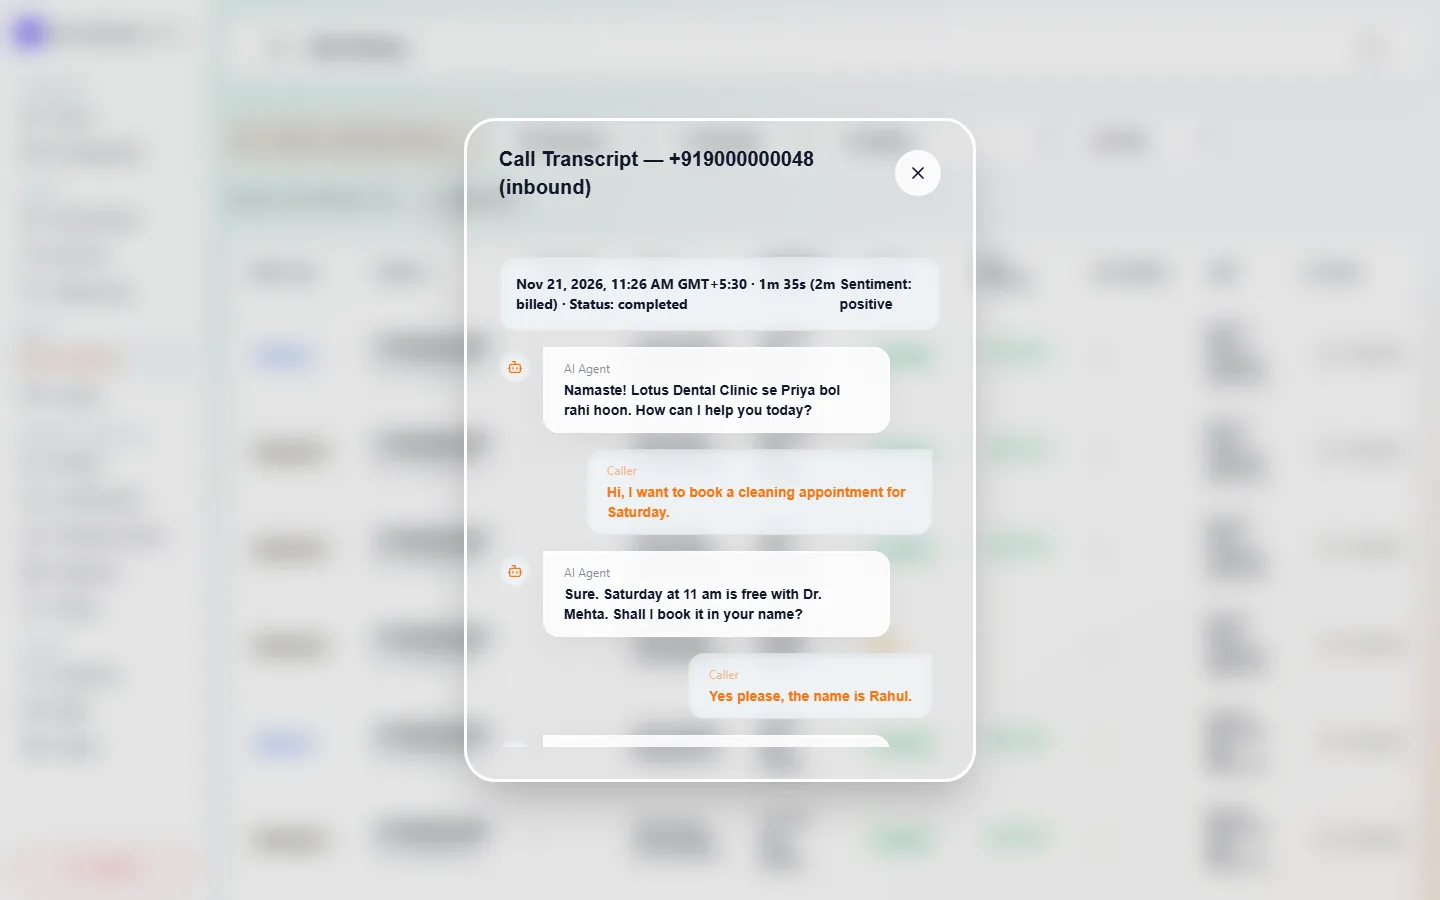
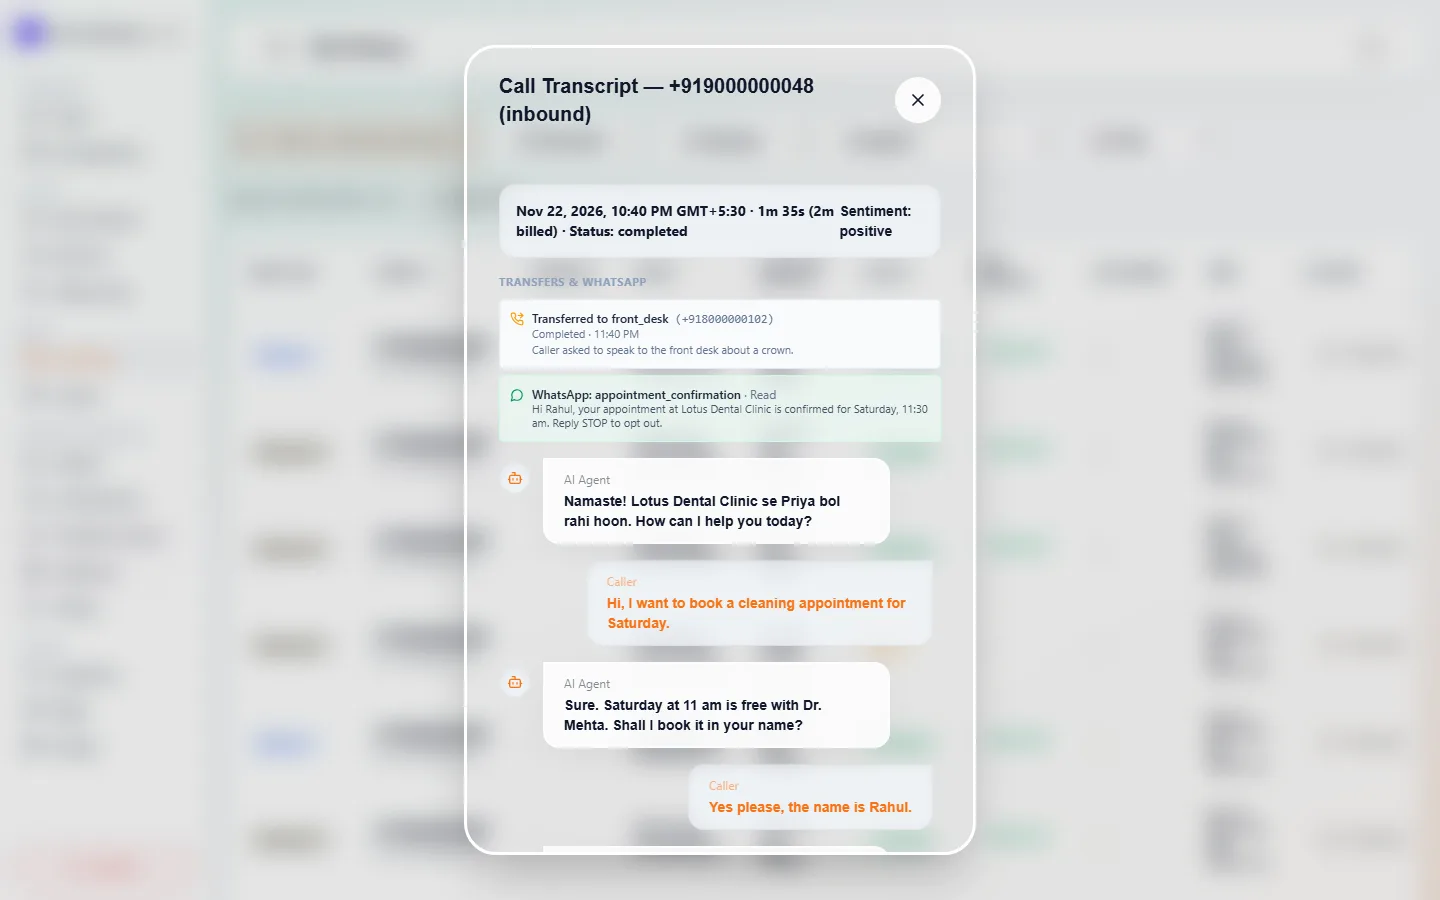
docs(site): live transfers and WhatsApp on the features pages
- Product Guide (/guide): new section "Live transfers and WhatsApp" (6 steps, 5 tips).
  - 3 new real-dashboard screenshots; the Integrations, agent editor and transcript screenshots
    were retaken.
- AI Voice Agent Software page: "Live Transfer to Your Team" and "WhatsApp Follow-ups" feature
  cards; the grid is now 3 per row.
- Demo seed (TEST database, fictional): a connected WhatsApp number, a billing agent, the three
  hand-off functions, one transfer and one WhatsApp message.
- GUIDE_SHOTS retakes only the named screens.
- Call History shows a transfer to "front desk" rather than "front_desk".

Proof:
- Build gate: 17 guide sections, every screenshot present.
- No sideways overflow at 1440 or 390 px.
- Marketing claims 39/39, demo smoke 5/5, guide and viewport specs 63/63.

Changed region(s): [[0.3125, 0.0311, 0.6875, 0.9956]]

diff --git a/server/scripts/demo_backend.js b/server/scripts/demo_backend.js
@@ -35,6 +35,14 @@ async function seed() {
   const agent = await prisma.agent.create({ data: { userId: u, name: 'Lotus Dental Receptionist', status: 'active', agentType: 'prompt', systemPrompt: 'You are Priya, the receptionist of Lotus Dental Clinic in Pune. Greet callers warmly in English or Hindi, answer questions about timings and fees from the knowledge base, and book appointments on the clinic calendar. Never give medical advice; offer a call-back from the dentist instead.', agentConfig: JSON.stringify({ callSettings: { recordingEnabled: false } }), direction: 'inbound' } });
   const agent2 = await prisma.agent.create({ data: { userId: u, name: 'COD Order Confirmation', status: 'active', agentType: 'prompt', systemPrompt: 'You call customers of Kesar Naturals who chose cash on delivery. Confirm the order, the delivery address and a good time to deliver, in Hindi or English.', agentConfig: '{}', direction: 'outbound' } });
   await prisma.agent.create({ data: { userId: u, name: 'EMI Due-Date Reminder', status: 'draft', agentType: 'prompt', systemPrompt: 'Remind borrowers politely that their EMI is due in three days. Verify identity before sharing any amount.', agentConfig: '{}', direction: 'outbound' } });
+  // Live transfers and WhatsApp (2026-11-22): a billing specialist, and the receptionist's three
+  // hand-off functions. The front-desk number is a placeholder like BUSINESS_NUMBER.
+  const billingAgent = await prisma.agent.create({ data: { userId: u, name: 'Lotus Billing Desk', status: 'active', agentType: 'prompt', systemPrompt: 'You are the billing desk of Lotus Dental Clinic. Explain invoices, payment options and insurance paperwork.', agentConfig: '{}', direction: 'inbound' } });
+  await prisma.agent.update({ where: { id: agent.id }, data: { agentConfig: JSON.stringify({ callSettings: { recordingEnabled: false }, functions: [
+    { id: 'fn-front-desk', name: 'front_desk', type: 'transfer_call', description: 'The caller asks to speak to a person, or has a dental emergency.', targetNumber: '+918000000102', fallbackMessage: 'Sorry, the front desk is busy right now. We will call you back within the hour.' },
+    { id: 'fn-billing', name: 'billing_desk', type: 'agent_transfer', description: 'The caller has a question about a bill, a payment or insurance.', targetAgentId: billingAgent.id },
+    { id: 'fn-whatsapp', name: 'send_appointment_confirmation', type: 'send_whatsapp', description: 'After an appointment is booked, offer the confirmation on WhatsApp.', whatsappTemplate: 'appointment_confirmation', whatsappLanguage: 'en', whatsappVariables: [{ description: "caller's first name" }, { description: 'appointment date and time' }] },
+  ] }) } });
   const number = await prisma.phoneNumber.create({ data: { userId: u, phoneNumber: BUSINESS_NUMBER, countryCode: 'IN', telephonyProvider: 'vobiz', status: 'active', kycStatus: 'verified', assignedAgentId: agent.id, region: 'Pune' } }).catch(async () => prisma.phoneNumber.findFirst({ where: { phoneNumber: BUSINESS_NUMBER } }));
 
   // Two weeks of calls, so the analytics chart and call history look like a real fortnight.
@@ -82,6 +90,27 @@ async function seed() {
   await prisma.knowledgeBase.create({ data: { userId: u, name: 'Clinic timings and fees.txt', contentText: kbText, sizeChars: kbText.length } }).catch(() => {});
   await prisma.alertRule.create({ data: { userId: u, name: 'Failed calls above 20%', metric: 'error_rate', comparator: 'greater_than', thresholdValue: 20 } });
   await prisma.qaCohort.create({ data: { userId: u, name: 'This week\'s receptionist calls' } });
+
+  // A connected (fictional) WhatsApp Business number with approved templates, and the latest call's
+  // hand-off + WhatsApp message, so Integrations and Call History show the feature.
+  const { EncryptionService } = require('../dist/utils/EncryptionService');
+  const tpl = (name, category, text, keys, usable = true, why) => ({ name, language: 'en', category, status: 'APPROVED', bodyText: text, variables: keys.map((key) => ({ key, named: false })), usable, ...(why ? { unusableReason: why } : {}) });
+  await prisma.whatsAppAccount.create({ data: {
+    userId: u, phoneNumberId: '100000000000101', wabaId: '200000000000101', displayPhoneNumber: '+91 80000 00101', verifiedName: 'Lotus Dental Clinic',
+    accessToken: EncryptionService.encrypt('demo-placeholder-not-a-token'), appSecret: EncryptionService.encrypt('0'.repeat(32)), verifyToken: crypto.randomBytes(24).toString('hex'),
+    status: 'connected', webhookVerifiedAt: new Date(), templatesSyncedAt: new Date(),
+    templates: JSON.stringify([
+      tpl('appointment_confirmation', 'UTILITY', 'Hi {{1}}, your appointment at Lotus Dental Clinic is confirmed for {{2}}. Reply STOP to opt out.', ['1', '2']),
+      tpl('clinic_location', 'UTILITY', 'Lotus Dental Clinic, Kothrud, Pune. Open Monday to Saturday, 10 am to 7 pm.', []),
+      tpl('login_code', 'AUTHENTICATION', '{{1}} is your code.', ['1'], false, 'One-time passcode templates cannot be sent by a voice agent.'),
+    ]),
+  } });
+  const latest = await prisma.call.findFirst({ where: { userId: u, status: 'completed' }, orderBy: { createdAt: 'desc' } });
+  if (latest) {
+    const callerNo = latest.callDirection === 'inbound' ? latest.fromPhoneNumber : latest.recipientPhoneNumber;
+    await prisma.callTransfer.create({ data: { userId: u, callId: latest.id, kind: 'human', fromAgentId: latest.agentId, destinationLabel: 'front_desk', destinationNumber: '+918000000102', reason: 'Caller asked to speak to the front desk about a crown.', status: 'completed', dialStatus: 'completed', completedAt: new Date() } });
+    await prisma.whatsAppMessage.create({ data: { userId: u, callId: latest.id, agentId: latest.agentId, direction: 'outbound', phoneNumber: callerNo, templateName: 'appointment_confirmation', language: 'en', body: 'Hi Rahul, your appointment at Lotus Dental Clinic is confirmed for Saturday, 11:30 am. Reply STOP to opt out.', status: 'read', metaMessageId: `wamid.demo.${crypto.randomBytes(6).toString('hex')}`, idempotencyKey: `${latest.id}:send_appointment_confirmation` } });
+  }
   await prisma.scheduledCall.create({ data: { source: 'ai_booked', agentId: agent.id, phoneNumber: caller(1), scheduledAtUtc: new Date(Date.now() + 86400000), timezone: 'Asia/Kolkata', idempotencyKey: crypto.randomUUID() } });
   return { agent, number };
 }

diff --git a/Frontend/src/app/pages/AiVoiceAgentSoftware.tsx b/Frontend/src/app/pages/AiVoiceAgentSoftware.tsx
@@ -4,7 +4,7 @@ import {
   Play, Pause, Terminal, 
   ChevronRight, Network, Check,
   Bot, HeartPulse, ShoppingBag, Landmark, 
-  HelpCircle, Globe2
+  HelpCircle, Globe2, PhoneForwarded, MessageCircle
 } from "lucide-react";
 import { PUBLIC_PLANS, effectiveRate } from '../lib/plans';
 
@@ -285,7 +285,7 @@ export default function AiVoiceAgentSoftware({ setPage }: PageProps) {
           </p>
         </div>
 
-        <div className="grid grid-cols-1 md:grid-cols-2 lg:grid-cols-4 gap-4">
+        <div className="grid grid-cols-1 md:grid-cols-2 lg:grid-cols-3 gap-4">
           <div className="bg-[#EBE9E2] p-6 rounded-[2px] border border-[#CBC8BE] hover:border-[#9C998F] transition-colors space-y-3">
             <div className="w-9 h-9 rounded-[2px] bg-[#DFDCD4] text-[#121212] border border-[#CBC8BE] flex items-center justify-center font-bold">
               <Zap className="w-4 h-4" />
@@ -323,6 +323,26 @@ export default function AiVoiceAgentSoftware({ setPage }: PageProps) {
             <h3 className="text-base font-medium text-[#121212] font-sans">DPDP & Edge PII Redaction</h3>
             <p className="text-xs text-[#262523] leading-relaxed font-sans">
               Engineered for strict telecom governance. Personal identifiers and bank details are scrubbed from audio transcripts before persistence.
+            </p>
+          </div>
+
+          <div className="bg-[#EBE9E2] p-6 rounded-[2px] border border-[#CBC8BE] hover:border-[#9C998F] transition-colors space-y-3">
+            <div className="w-9 h-9 rounded-[2px] bg-[#DFDCD4] text-[#121212] border border-[#CBC8BE] flex items-center justify-center font-bold">
+              <PhoneForwarded className="w-4 h-4" />
+            </div>
+            <h3 className="text-base font-medium text-[#121212] font-sans">Live Transfer to Your Team</h3>
+            <p className="text-xs text-[#262523] leading-relaxed font-sans">
+              When a caller asks for a person, the agent says it is connecting them and the call rings your team, with your own number as caller ID. It can also pass the call to another of your agents, such as a billing desk, along with a summary so nobody has to repeat themselves.
+            </p>
+          </div>
+
+          <div className="bg-[#EBE9E2] p-6 rounded-[2px] border border-[#CBC8BE] hover:border-[#9C998F] transition-colors space-y-3">
+            <div className="w-9 h-9 rounded-[2px] bg-[#DFDCD4] text-[#121212] border border-[#CBC8BE] flex items-center justify-center font-bold">
+              <MessageCircle className="w-4 h-4" />
+            </div>
+            <h3 className="text-base font-medium text-[#121212] font-sans">WhatsApp Follow-ups</h3>
+            <p className="text-xs text-[#262523] leading-relaxed font-sans">
+              Booking confirmations, brochures or location links go out on WhatsApp from your own business number, using templates Meta has approved. The agent asks first and sends only to callers who say yes.
             </p>
           </div>
         </div>

diff --git a/Frontend/src/app/components/calls/CallHandoffsPanel.tsx b/Frontend/src/app/components/calls/CallHandoffsPanel.tsx
@@ -49,7 +49,7 @@ export function CallHandoffsPanel({ callId, className = '' }: { callId: string; 
             {t.kind === 'human' ? <PhoneForwarded className="w-3.5 h-3.5 text-amber-500 mt-0.5 flex-shrink-0" /> : <UserCheck className="w-3.5 h-3.5 text-emerald-500 mt-0.5 flex-shrink-0" />}
             <div className="min-w-0 flex-1">
               <p className="font-semibold text-slate-800 dark:text-slate-200 break-words">
-                {t.kind === 'human' ? `Transferred to ${t.destinationLabel || 'your team'}` : `Handed to ${t.toAgentName || t.destinationLabel || 'another agent'}`}
+                {t.kind === 'human' ? `Transferred to ${(t.destinationLabel || 'your team').replace(/_/g, ' ')}` : `Handed to ${t.toAgentName || (t.destinationLabel || 'another agent').replace(/_/g, ' ')}`}
                 {t.destinationNumber ? <span className="font-mono font-normal text-slate-500"> ({t.destinationNumber})</span> : null}
               </p>
               <p className="text-[11px] text-slate-500">{TRANSFER_STATUS[t.status] || t.status} · {formatTime(t.createdAt, { hour: '2-digit', minute: '2-digit' })}</p>

diff --git a/docs/FIX_LOG.md b/docs/FIX_LOG.md
@@ -631,3 +631,19 @@ Owner decisions:
   - a real Meta send and webhook.
 
   Steps are in PROGRESS "Needs owner verification" item 31.
+
+## Features page: live transfers and WhatsApp (2026-11-23, branch feat/features-page-whatsapp)
+- **Product Guide (`/guide`):**
+  - New section "Live transfers and WhatsApp" under "Build your agent", with 6 steps and 5 tips.
+  - 3 new screenshots: `handoff-functions`, `whatsapp-step` and `call-handoffs`.
+  - The `integrations`, `agent-editor` and `call-transcript` screenshots were retaken.
+- **Screenshots and demo data:**
+  - Taken from the real dashboard against the demo backend.
+  - The demo seed now holds fictional data: a connected WhatsApp number, a billing agent, the receptionist's three hand-off functions, and one transfer and one WhatsApp message.
+  - `GUIDE_SHOTS=a,b` retakes only the named screens.
+- **AI Voice Agent Software page:** 2 new feature cards ("Live Transfer to Your Team", "WhatsApp Follow-ups"). The grid is now 3 per row.
+- **Call History:** the transfer label shows "front desk" rather than "front_desk".
+- **Proof:**
+  - Build gate: the guide has 17 sections and every screenshot exists.
+  - Screenshots: `docs/proof/features-guide-transfers-whatsapp-{1440,390}.png` and `features-software-cards-{1440,390}.png`, with no sideways overflow.
+  - Tests: marketing claims 39/39, demo smoke 5/5, guide and viewport specs 63/63.
